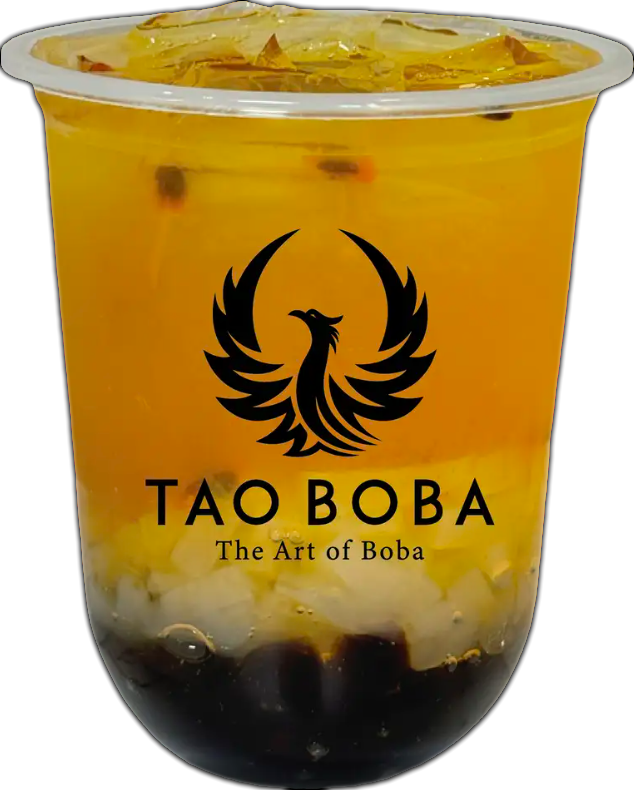
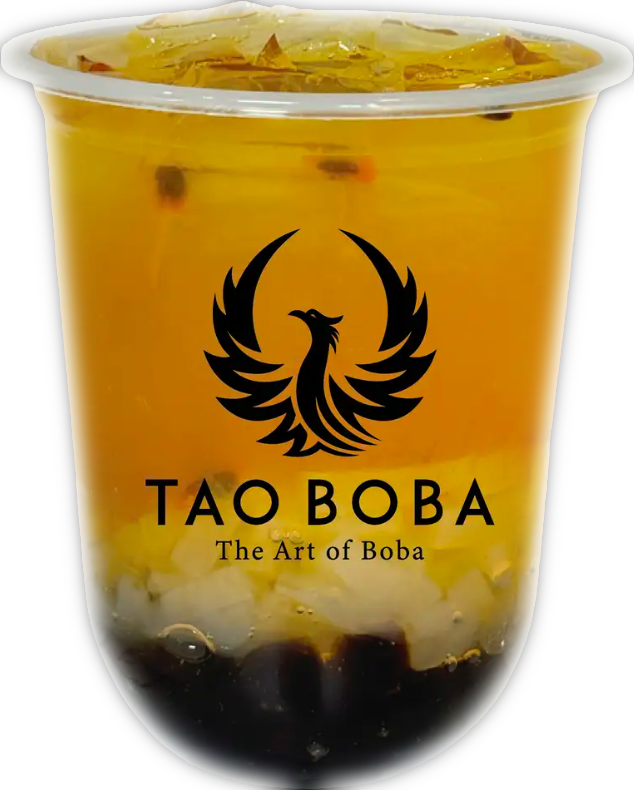
Update boba artifact styles and replace asset images
Replit-Commit-Author: Agent

Changed region(s): [[0.0, 0.0, 1.0, 1.0]]

diff --git a/artifacts/tao-boba/src/index.css b/artifacts/tao-boba/src/index.css
@@ -326,24 +326,12 @@ p     { margin: 0 }
   max-width: none !important;
   object-fit: contain;
   margin: 0 auto;
-  filter: contrast(1.06) saturate(1.12);
-  position: relative; z-index: 1;
+  /* Fogged edges baked into PNG alpha; tiny drop-shadow seals the outermost pixel */
+  filter:
+    drop-shadow(0 0 6px rgba(246,241,232,.95))
+    drop-shadow(0 0 18px rgba(246,241,232,.55))
+    contrast(1.06) saturate(1.12);
   image-rendering: -webkit-optimize-contrast;
-}
-
-/* ── Inner glow layer ────────────────────────────────────────────────────────
-   Same image, positioned behind the real cup. Saturate→0 + extreme brightness
-   turns the cup shape pure white; blur spreads it outward from inside the edge.
-   The result: glow starts from within the cup boundary, not outside it. */
-.cup-glow-img {
-  position: absolute !important;
-  top: 50%; left: 50%;
-  transform: translate(-50%, -50%);
-  z-index: 0 !important;
-  filter: saturate(0) brightness(18) blur(36px) !important;
-  opacity: 0.72;
-  pointer-events: none;
-  user-select: none;
 }
 
 /* ── Ingredient particle animations ─────────────────────────────────────────
@@ -923,8 +911,10 @@ p     { margin: 0 }
     max-height: 505px;
     object-fit: contain;
     margin: 0 auto;
-    filter: contrast(1.04) saturate(1.08);
-    position: relative; z-index: 1;
+    filter:
+      drop-shadow(0 0 6px rgba(246,241,232,.95))
+      drop-shadow(0 0 18px rgba(246,241,232,.55))
+      contrast(1.04) saturate(1.08);
   }
 
   /* Clean reference composition */

diff --git a/artifacts/tao-boba/src/pages/home.tsx b/artifacts/tao-boba/src/pages/home.tsx
@@ -300,16 +300,6 @@ export default function Home() {
 
       const incoming = document.createElement('div');
       incoming.className = 'cup-wrap';
-
-      /* glow layer — sits behind the real cup, white-blasted + blurred */
-      const glowImg = document.createElement('img');
-      glowImg.src = p.photo;
-      glowImg.alt = '';
-      glowImg.className = 'cup-glow-img';
-      glowImg.setAttribute('aria-hidden', 'true');
-      incoming.appendChild(glowImg);
-
-      /* main cup image on top */
       const img = document.createElement('img');
       img.src = p.photo;
       img.alt = p.name;
